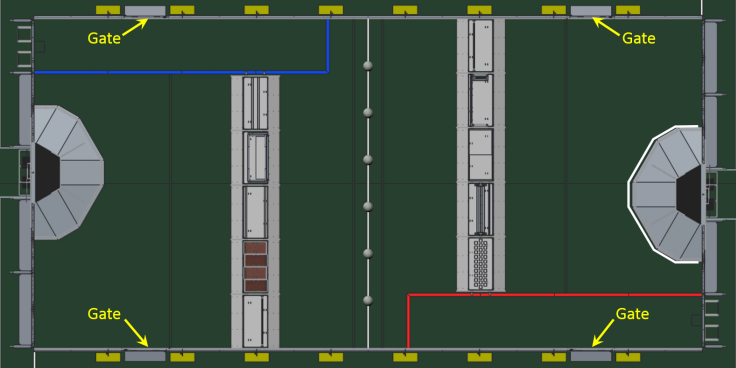
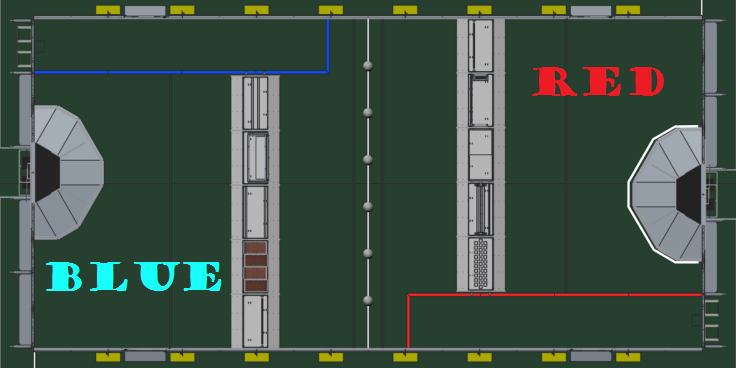
Minor improvements
Updated the field map image to be clearer about which side is which,
fixed the underlying indexing problems that were previously just duct
taped up, and removed outdated tool tips on the defenses after a
submission.

diff --git a/Field Scout System/src/scouting/active/ClickableOuterWorks.java b/Field Scout System/src/scouting/active/ClickableOuterWorks.java
@@ -18,7 +18,7 @@ public class ClickableOuterWorks {
 	}
 	
 	public void addDefense(DefenseClickRegion dcr){
-		defenses[dcr.getDefenseNumber()- 1] = dcr;
+		defenses[dcr.getDefenseNumber()- 2] = dcr;
 		dcr.addToOuterWorks(this);
 	}
 	
@@ -52,17 +52,18 @@ public class ClickableOuterWorks {
 	}
 	
 	public void selectNext(int callNum){
+		int defenseIndex = callNum - 2;
 		clearBorders();
-		if(callNum < defenses.length){
-			defenses[callNum].setIsSelected(true);
-			displaySelector(defenses[callNum]);
+		if(defenseIndex > 0){
+			defenses[defenseIndex - 1].setIsSelected(true);
+			displaySelector(defenses[defenseIndex - 1]);
 		}
 	}
 	
 	public OuterWorks getData(){
 		String[] defenseNames = new String[defenses.length + 1];
 		for(int i = 0; i < defenses.length; i++){
-			defenseNames[i + 1] = defenses[defenses.length-i-1].getDefenseName();
+			defenseNames[i + 1] = defenses[i].getDefenseName();
 		}
 		defenseNames[0] = "Low Bar";
 		return new OuterWorks(defenseNames);
@@ -71,11 +72,11 @@ public class ClickableOuterWorks {
 	public String validateData(){
 		for(int i = 0; i < defenses.length; i++){
 			if(defenses[i].getDefenseName().equals(DefenseClickRegion.emptyText)){
-				return "Unfilled defense: " + getColor().name() + " " + (6 - defenses[i].getDefenseNumber());
+				return "Unfilled defense: " + defenses[i].toString();
 			}
 			for(int j = i + 1; j < defenses.length; j++){
 				if(Defense.findGroup(defenses[i].getDefenseName()) == Defense.findGroup(defenses[j].getDefenseName())){
-					return "Group conflict between " + getColor().name() + " " + (6 - defenses[i].getDefenseNumber()) + " and " + (6 - defenses[j].getDefenseNumber());
+					return "Group conflict between " + defenses[i].toString() + " and " + defenses[j].toString();
 				}
 			}
 		}

diff --git a/Field Scout System/src/scouting/active/FieldScoutGUI.java b/Field Scout System/src/scouting/active/FieldScoutGUI.java
@@ -88,13 +88,13 @@ public class FieldScoutGUI extends JPanel implements ActionListener{
 		
 		ClickableOuterWorks blueOuterWorks = new ClickableOuterWorks(selector, AllianceColor.BLUE);
 		for(int i = 0; i < 4; i++){
-			DefenseClickRegion dcr = new DefenseClickRegion(i, new Rectangle(244, 78 + 54 * i, 23, 51));
+			DefenseClickRegion dcr = new DefenseClickRegion(5 - i, new Rectangle(244, 78 + 54 * i, 23, 51));
 			blueOuterWorks.addDefense(dcr);
 		}
 		
 		ClickableOuterWorks redOuterWorks = new ClickableOuterWorks(selector, AllianceColor.RED);
 		for(int i = 0; i < 4; i++){
-			DefenseClickRegion dcr = new DefenseClickRegion(i, new Rectangle(469, 237 - 54 * i, 23, 51));
+			DefenseClickRegion dcr = new DefenseClickRegion(5 - i, new Rectangle(469, 237 - 54 * i, 23, 51));
 			redOuterWorks.addDefense(dcr);
 		}
 		
@@ -143,7 +143,7 @@ public class FieldScoutGUI extends JPanel implements ActionListener{
 	 * DO NOT CALL unless the validateData method has been called on both {@link ClickableOuterWorks}'s and the {@link InfoPanel}.
 	 */
 	private void extractData(){
-		FieldLayout fl = new FieldLayout(cowList[0].getData(), cowList[1].getData());
+		FieldLayout fl = new FieldLayout(cowList[1].getData(), cowList[0].getData());
 		MatchData md = info.getData();
 		md.setLayout(fl);
 		

diff --git a/Field Scout System/src/scouting/active/DefenseClickRegion.java b/Field Scout System/src/scouting/active/DefenseClickRegion.java
@@ -46,6 +46,7 @@ public class DefenseClickRegion extends JPanel{
 	public void reset(){
 		isSelected = false;
 		isFilled = false;
+		setToolTipText(null);
 		defenseName = emptyText;
 		repaint();
 	}
@@ -104,7 +105,7 @@ public class DefenseClickRegion extends JPanel{
 	}
 	
 	public int getDefenseNumber(){
-		return defenseNumber + 1;
+		return defenseNumber;
 	}
 	
 	private DefenseClickRegion getThis(){
@@ -126,7 +127,7 @@ public class DefenseClickRegion extends JPanel{
 			default: name = "Unspecified Color";
 		}
 		
-		name += " " + (6 - getDefenseNumber()) + ": " + getDefenseName();
+		name += " " + getDefenseNumber() + ": " + getDefenseName();
 		return name;
 	}
 
@@ -137,7 +138,7 @@ public class DefenseClickRegion extends JPanel{
 		} else {
 			setBackground(unfilled);
 		}
-		g.drawString((6 - getDefenseNumber()) + "", getWidth() / 2, getHeight() / 2);
+		g.drawString(getDefenseNumber() + "", getWidth() / 2, getHeight() / 2);
 		if(isSelected){
 			setBorder(BorderFactory.createMatteBorder(1, 1, 1, 1, Color.YELLOW));
 		} else {

diff --git a/Field Scout System/src/scouting/io/DataWriter.java b/Field Scout System/src/scouting/io/DataWriter.java
@@ -45,8 +45,8 @@ public class DataWriter {
 		writer.print(md.getBreach().name() + ",");
 		
 		FieldLayout fl = md.getLayout();
-		OuterWorks blue = fl.getRedOuterWorks();
-		OuterWorks red = fl.getBlueOuterWorks();
+		OuterWorks red = fl.getRedOuterWorks();
+		OuterWorks blue = fl.getBlueOuterWorks();
 		for(int i = 0; i < 5; i++){
 			writer.print(red.getDefense(i + 1).getName() + ",");
 		}
